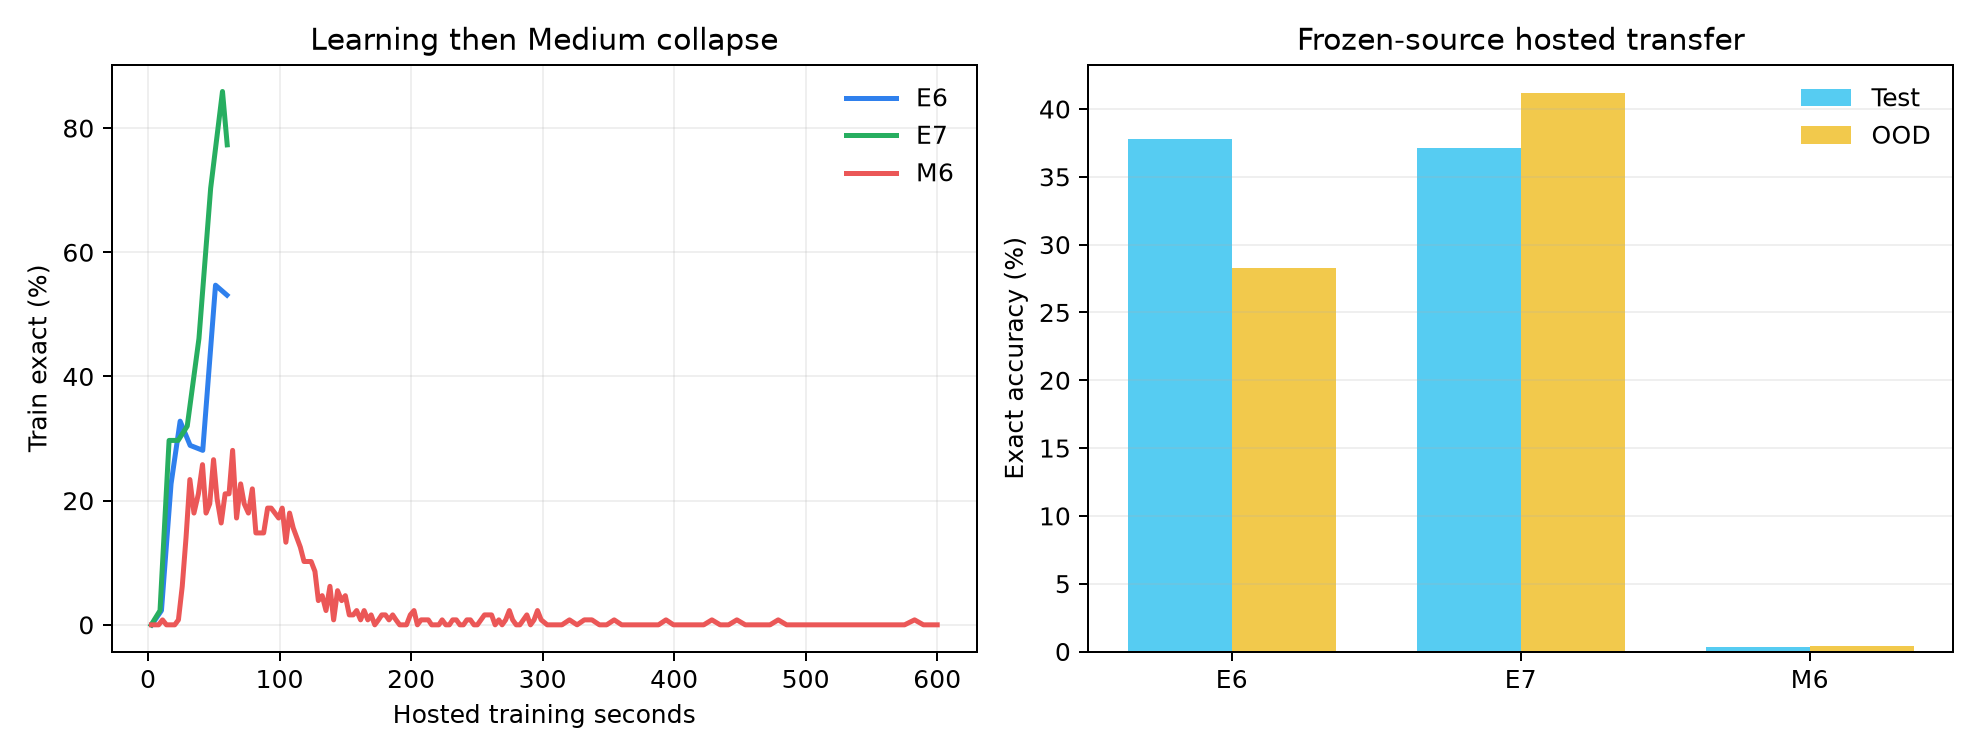
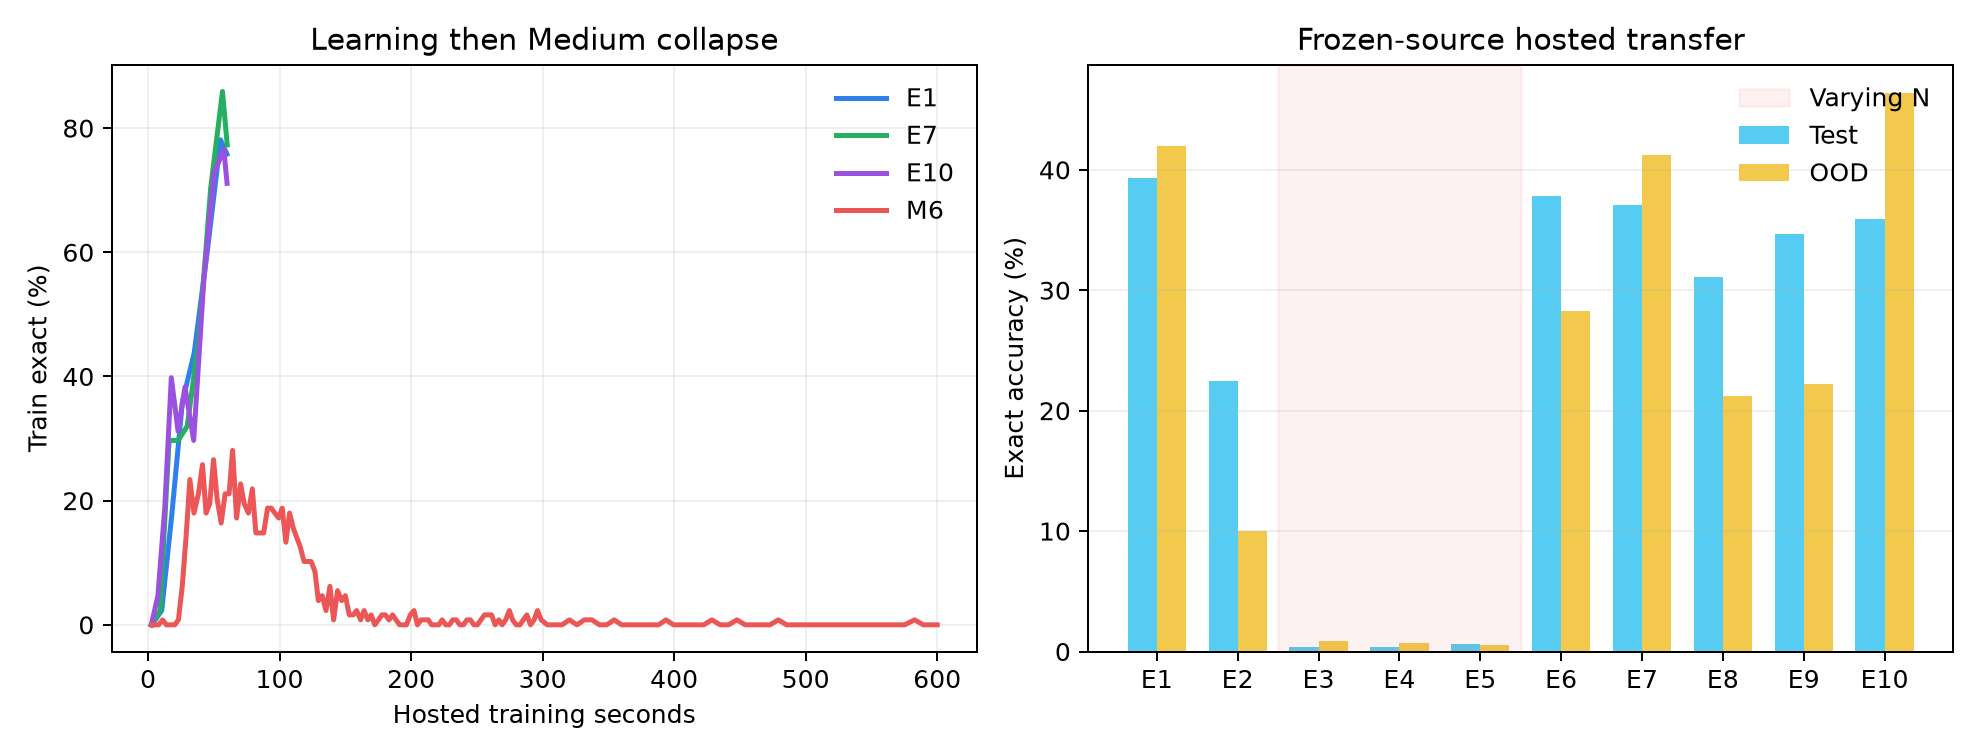
research: map Neural GPU across all Easy datasets

diff --git a/solving/experiments/2026-08-15_neural_gpu_square_reduce_transfer/plot.py b/solving/experiments/2026-08-15_neural_gpu_square_reduce_transfer/plot.py
@@ -4,7 +4,7 @@ from pathlib import Path
 import matplotlib.pyplot as plt
 
 ROOT = Path(__file__).parent
-COLORS = {"E6": "#2f80ed", "E7": "#27ae60", "M6": "#eb5757"}
+COLORS = {"E1": "#2f80ed", "E7": "#27ae60", "E10": "#9b51e0", "M6": "#eb5757"}
 
 
 def read(name):
@@ -13,7 +13,7 @@ def read(name):
 
 fig, axes = plt.subplots(1, 2, figsize=(11, 4.2))
 scores = {}
-for name in ("E6", "E7", "M6"):
+for name in ("E1", "E7", "E10", "M6"):
     rows = read(name)
     train = [row for row in rows if row.get("type") == "train"]
     axes[0].plot([row["elapsed_seconds"] for row in train],
@@ -28,12 +28,19 @@ axes[0].set(xlabel="Hosted training seconds", ylabel="Train exact (%)",
 axes[0].legend(frameon=False)
 axes[0].grid(alpha=.2)
 
-x = range(3)
-axes[1].bar([i - .18 for i in x], [scores[name]["test"] for name in scores],
+easy_names = [f"E{i}" for i in range(1, 11)]
+easy_scores = {}
+for name in easy_names:
+    rows = read(name)
+    easy_scores[name] = {row["split"]: 100 * row["exact_accuracy"] for row in rows
+                         if row.get("type") == "evaluation"}
+x = range(10)
+axes[1].bar([i - .18 for i in x], [easy_scores[name]["test"] for name in easy_names],
             width=.36, label="Test", color="#56ccf2")
-axes[1].bar([i + .18 for i in x], [scores[name]["ood"] for name in scores],
+axes[1].bar([i + .18 for i in x], [easy_scores[name]["ood"] for name in easy_names],
             width=.36, label="OOD", color="#f2c94c")
-axes[1].set_xticks(list(x), list(scores))
+axes[1].set_xticks(list(x), easy_names)
+axes[1].axvspan(1.5, 4.5, color="#eb5757", alpha=.08, label="Varying N")
 axes[1].set(ylabel="Exact accuracy (%)", title="Frozen-source hosted transfer")
 axes[1].legend(frameon=False)
 axes[1].grid(axis="y", alpha=.2)

diff --git a/solving/experiments/2026-08-15_neural_gpu_square_reduce_transfer/NOTE.md b/solving/experiments/2026-08-15_neural_gpu_square_reduce_transfer/NOTE.md
@@ -2,19 +2,38 @@
 
 Frozen legal source: [`../../submissions/neural_gpu_square_reduce/submission.py`](../../submissions/neural_gpu_square_reduce/submission.py).
 
-| Dataset | Job | Train steps | Final train | Test | OOD | Mean |
+| Dataset | N regime | Train steps | Final train | Test | OOD | Mean |
 | --- | --- | ---: | ---: | ---: | ---: | ---: |
-| E6 | `6b5ef912-e92f-42a2-8675-cf47937bc50b` | 690 | 53.1% | 37.8% | 28.3% | 33.09% |
-| E7 | `fb58a13a-7a2d-4694-b76a-5618710c81ae` | 737 | 77.3% | 37.1% | 41.2% | 39.15% |
-| M6 | `006cfcc8-c40e-4083-8e6d-0874f758ef16` | 15,573 | 0.0% | 0.3% | 0.4% | 0.33% |
+| E1 | fixed 323 | 651 | 75.8% | 39.3% | 42.0% | 40.67% |
+| E2 | fixed 899 | 676 | 39.1% | 22.5% | 10.0% | 16.25% |
+| E3 | varying | 1,476 | 3.9% | 0.4% | 0.9% | 0.62% |
+| E4 | varying | 1,504 | 0.0% | 0.4% | 0.7% | 0.59% |
+| E5 | varying | 1,681 | 32.0% | 0.6% | 0.5% | 0.54% |
+| E6 | fixed 247 | 690 | 53.1% | 37.8% | 28.3% | 33.09% |
+| E7 | fixed 287 | 737 | 77.3% | 37.1% | 41.2% | 39.15% |
+| E8 | fixed 287 | 709 | 84.4% | 31.1% | 21.2% | 26.12% |
+| E9 | fixed 299 | 712 | 80.5% | 34.7% | 22.2% | 28.44% |
+| E10 | fixed 403 | 931 | 71.1% | 35.9% | 46.4% | **41.13%** |
+| M6 | fixed 1,517 | 15,573 | 0.0% | 0.3% | 0.4% | 0.33% |
 
 M6 initially learned: train exact peaked at 28.1% at step 2,100. It then
 collapsed toward zero by step 6,000 and loss exceeded 20 after step 12,000.
 Thus the final M6 result is confounded by optimizer instability and does not
 isolate arithmetic scale or model width.
 
-The owner explicitly authorized Hard escalation. Exact SHA-1
-`ff3381c9be98884f0409a3a63fa467cf6be47ab9` was queued as Hard H1 job
-`37cedcd2-a172-4fb3-b289-24260777c83b`.
+The full Easy sweep cleanly separates fixed N (16.25%--41.13%) from varying N
+(0.54%--0.62%). The owner explicitly authorized Hard escalation. Exact SHA-1
+`ff3381c9be98884f0409a3a63fa467cf6be47ab9` was accepted as Hard H1 job
+`37cedcd2-a172-4fb3-b289-24260777c83b`, but failed before scoring with
+`EVALUATION_FAILED`.
+
+## Muon correction
+
+The standalone winner held Muon at 0.02 through step 1,000, cosine-decayed only
+Muon to 0.002 through step 5,000, then clamped it at 0.002; scalar AdamW stayed
+at 0.0003. The submission incorrectly stretched warmdown across wall time.
+Easy ended around 650--1,700 updates, but M6 kept an excessive Muon rate long
+enough to destroy its early solution. The matched correction is a scheduler
+counter implementing the original 1,000/5,000 boundaries, not a new optimizer.
 
 Raw hosted metrics are in [`metrics/`](metrics/).

diff --git a/solving/STATUS.md b/solving/STATUS.md
@@ -1,6 +1,16 @@
 # Status (living)
 
-**Neural GPU square/reduce competition transfer (2026-08-15):** a legal
+**GPU retirement (2026-08-15):** Prime L40S pod
+`343285f532464d9f988ff4db33ff4838` was fully backed up and byte-verified (107
+files / 69,042,639 bytes), remotely wiped, and provider-terminated. Prime now
+reports no IP or SSH endpoint and the old endpoint times out.
+
+**Neural GPU square/reduce competition transfer (2026-08-15):** the frozen
+full Easy sweep cleanly separates fixed from varying moduli. Fixed-N
+E1/E2/E6/E7/E8/E9/E10 scored **40.67/16.25/33.09/39.15/26.12/28.44/41.13%**;
+varying-N E3/E4/E5 scored only **0.62/0.59/0.54%**. E10 is the current best.
+Same-N E7 versus E8 differs by 13 points, so curriculum/split support also
+matters. A legal
 897,457-parameter two-phase candidate preserves the 128-channel tied ConvGRU,
 9% recurrent dropout, and flattened-convolution Muon recipe, with separate
 learned square and reduction cells and N re-injection between phases. Frozen
@@ -10,8 +20,8 @@ from this architecture family. The unchanged M6 scale test scored only
 capacity verdict: train exact peaked at 28.1% near step 2,100, decayed toward
 zero by 6,000, and loss exploded above 20 after 12,000 steps. Owner-authorized
 Hard H1 job `37cedcd2-a172-4fb3-b289-24260777c83b` is queued with exact SHA-1
-`ff3381c9be98884f0409a3a63fa467cf6be47ab9`; preregistered expectation is no
-certified rung. The next controlled research matrix is H14: frozen pretrained,
+`ff3381c9be98884f0409a3a63fa467cf6be47ab9`, but failed before scoring with
+`EVALUATION_FAILED`. The next controlled research matrix is H14: frozen pretrained,
 trainable pretrained, random square plus matched reducer, and fully entangled.
 
 **Audited 11-bit squarer reproduction (2026-08-15):** the direct squarer was

diff --git a/solving/RESEARCH_LOG.md b/solving/RESEARCH_LOG.md
@@ -2618,3 +2618,20 @@ composition, still locally and without promoting weights to a submission.
 - **Next registered matrix:** H14 arms A frozen pretrained square + learned
   reducer, B trainable pretrained + reducer, C random square + reducer, and D
   fully entangled end-to-end, with matched splits/reducer/optimizer/compute.
+- **Full Easy sweep:** exact frozen source produced E1 40.67%, E2 16.25%, E3
+  0.62%, E4 0.59%, E5 0.54%, E6 33.09%, E7 39.15%, E8 26.12%, E9 28.44%,
+  and E10 **41.13%**. All seven fixed-N datasets are nontrivial; all three
+  varying-N datasets are chance-scale. E7/E8 share N=287 yet differ by 13.03
+  points, isolating additional curriculum/split sensitivity.
+- **Muon diagnosis:** the submission's wall-clock cosine is not the standalone
+  winner's schedule. The winner used Muon 0.02 through step 1,000, cosine to
+  0.002 by step 5,000, then clamped; scalar AdamW remained 0.0003. Replace the
+  wall-clock schedule with those exact update-count boundaries. This directly
+  predicts retention of M6's early 28.1% train solution instead of collapse.
+- **Hard correction:** H1 job `37cedcd2-a172-4fb3-b289-24260777c83b` failed
+  before producing metrics (`EVALUATION_FAILED`); it has no score and supplies
+  no Hard generalization evidence.
+- **Retirement:** complete `/home/ubuntu/ngpu` backup matched 107 files and
+  69,042,639 bytes locally/remotely. After verification the remote tree was
+  removed and Prime pod `343285f532464d9f988ff4db33ff4838` was terminated;
+  provider status has no IP/SSH endpoint and the former SSH address times out.

diff --git a/solving/experiments/predictions.md b/solving/experiments/predictions.md
@@ -2592,3 +2592,20 @@ PREDICT:    mean exact should remain materially above 5% on every fixed-N rung,
             collapse on E8 despite sharing N=287 with E7 would implicate split
             or curriculum sensitivity rather than arithmetic capacity.
 ```
+### 2026-08-15 — Frozen full Easy E1--E10 sweep
+
+```
+CARD:       neural_gpu_square_reduce_full_easy_sweep
+CHANGE:     dataset only; exact frozen SHA-1
+            ff3381c9be98884f0409a3a63fa467cf6be47ab9 on E1--E10
+PREDICT:    fixed-small-N E1/E2/E6--E10 should show the strongest signal;
+            varying-N E3--E5 should fall sharply because the reducer cannot
+            memorize one modulus. E8 should differ from E7 despite shared
+            N=287 only if curriculum/split support materially changes learning.
+            No source or optimizer changes are allowed during the sweep.
+```
+
+RESULT:     confirmed — fixed-N E1/E2/E6--E10 scored 16.25%--41.13%, while
+            varying-N E3/E4/E5 scored only 0.54%--0.62%. E7 versus same-N E8
+            differed materially (39.15% versus 26.12%), proving curriculum or
+            split sensitivity even when modulus is held constant.

diff --git a/solving/experiments/OPS.md b/solving/experiments/OPS.md
@@ -53,11 +53,12 @@ Don't `cp` the k4_ut file directly without checking `_build_scheduler` first.
 
 Agent skill: `.cursor/skills/osmn-gpu-box/`. Kill does **not** stop cloud billing — terminate the instance in the provider UI.
 
-Current: Prime pod `343285f532464d9f988ff4db33ff4838` is an active idle L40S
-at `ubuntu@64.247.206.9`, $0.82/hour (verified 2026-08-15). Research root:
-`/home/ubuntu/ngpu`. Its latest complete backup is verified at 106 files and
-69,002,419 bytes; see `solving/experiments/.gpu_box.json`. Keep it active until
-the owner requests termination.
+Retired 2026-08-15: Prime pod `343285f532464d9f988ff4db33ff4838`
+(L40S, formerly `ubuntu@64.247.206.9`, $0.82/hour) was copied and verified at
+107 files / 69,042,639 bytes under
+`diagnostics/artifacts/prime-343285f532464d9f988ff4db33ff4838/full-retirement-2026-08-15/`.
+`/home/ubuntu/ngpu` was removed only after verification; provider termination
+succeeded, status has no IP/SSH endpoint, and the old SSH endpoint times out.
 
 Historical 2026-08-03 box: Prime Intellect **L40** at `216.81.248.94`.
 Upstream clone `~/one-layer-deeper` was at **`8a3c78d`**, torch

diff --git a/GRIEVANCES.md b/GRIEVANCES.md
@@ -35,3 +35,11 @@ actionable request when one exists.
   whether the exact source/dataset pair has already been scored and require
   an explicit “submit this source now” authorization when the request is only
   to select or recommend a candidate.
+### 2026-08-15 — Prime termination helper drops its confirmed flag
+
+`prime_l40.sh kill ... --yes` validates the local confirmation token but invokes
+`prime pods terminate POD_ID` without forwarding `--yes`. In a noninteractive
+session this aborts after the backup has already been verified. The safe
+workaround was to inspect CLI help and run authenticated
+`prime pods terminate POD_ID --yes --plain`; no pod was terminated before the
+verified manifest existed.
